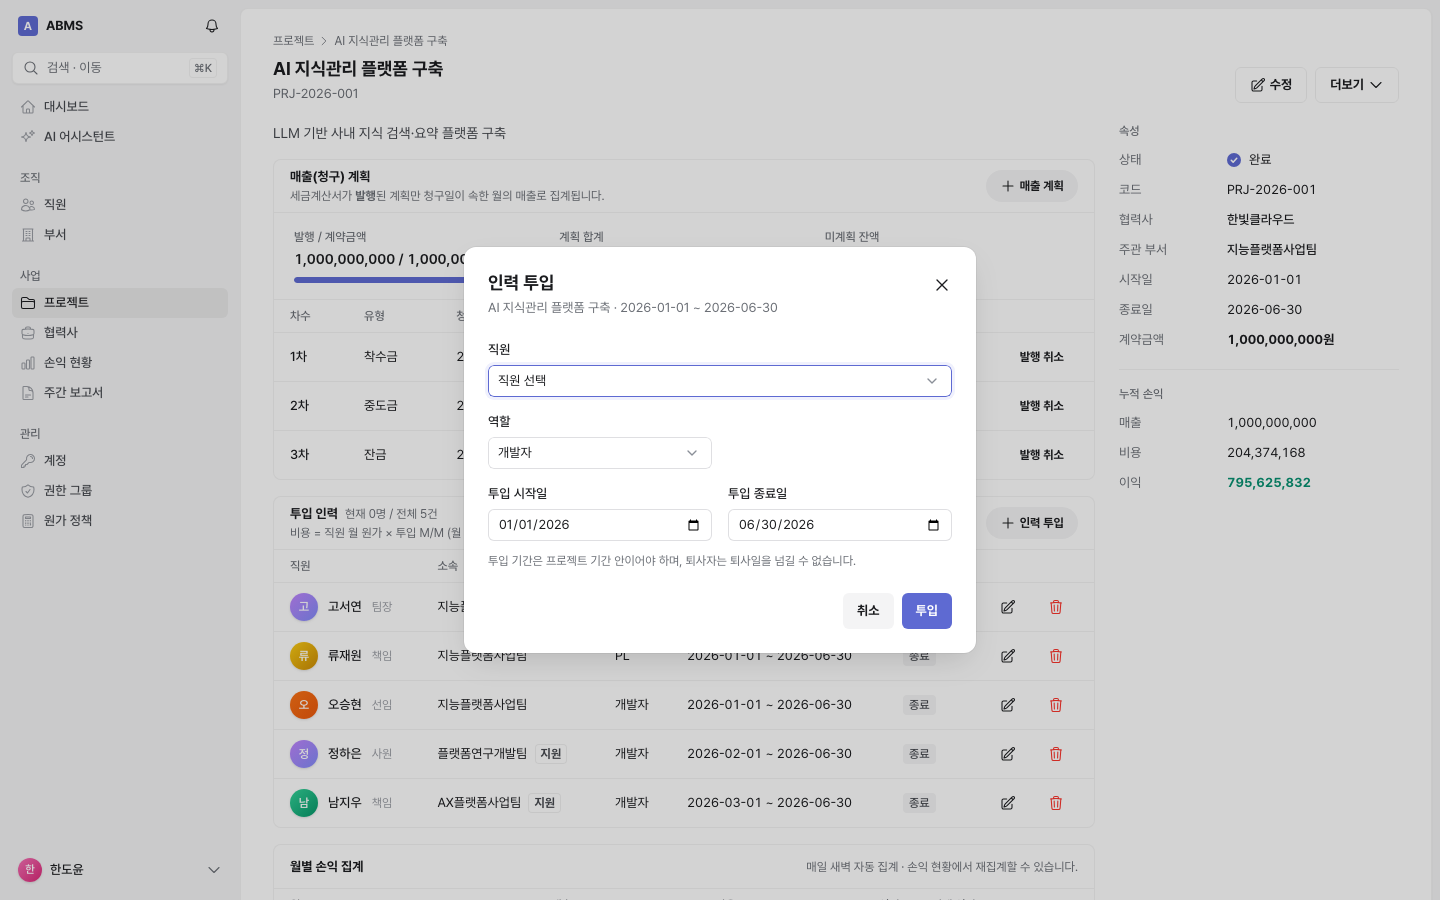
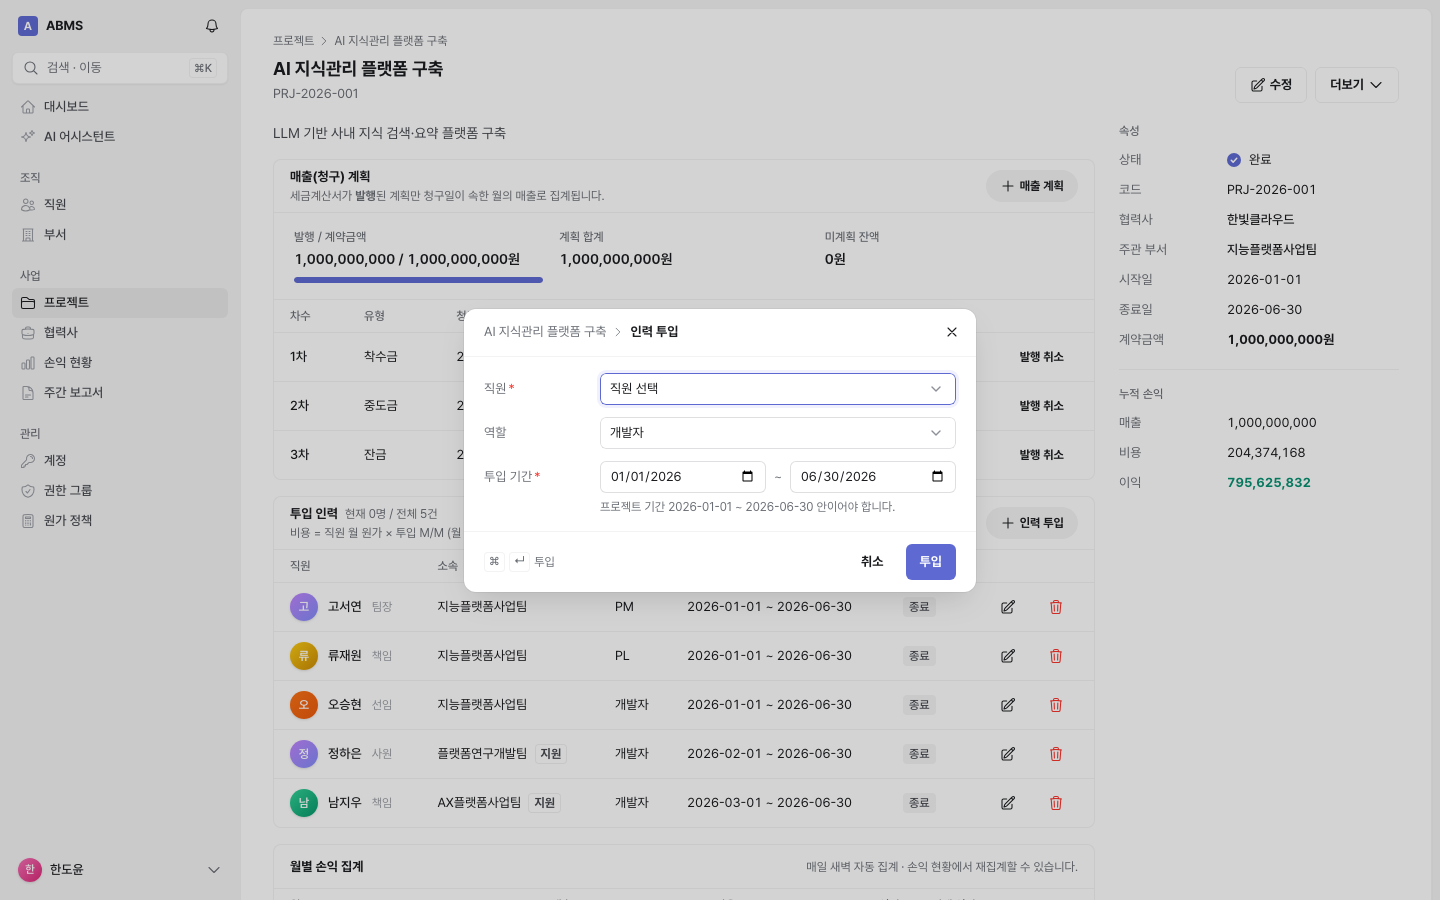
feat(v2): 모달 폼을 Linear 풍으로 개편
- 공통 모달: "맥락 › 제목" 머리 + 닫기, 본문, ⌘↵ 단축키 힌트가 있는 바닥
- propRow 컴포넌트와 prop-form 스타일로 "라벨 | 값" 속성 행 입력 (상세 화면 속성 패널과 같은 배치)
- 투입 인력·매출 계획·부서 추가/수정·부서장·승진·퇴사·연봉·권한 그룹·계정 발급·임시 비밀번호 모달 적용
  (부서·권한 그룹 추가는 제목형 이름 입력, 투입 기간은 시작~종료 한 줄)
- 모달 안에서 ⌘/Ctrl + Enter 로 폼 제출

diff --git a/abms-v2/src/main/tailwind/app.css b/abms-v2/src/main/tailwind/app.css
@@ -276,6 +276,15 @@
         @apply sticky bottom-4 z-10 mt-x2 flex items-center justify-end gap-x2 rounded-r3 border border-stroke-neutral-subtle bg-bg-layer-floating px-x4 py-x2_5 shadow-s2;
     }
 
+    /* 모달 폼: 라벨 | 값 속성 행 */
+    .prop-form {
+        @apply grid grid-cols-[104px_minmax(0,1fr)] items-start gap-x-x3 gap-y-x3;
+    }
+
+    .prop-label {
+        @apply flex min-h-8 items-center t4-regular text-fg-neutral-subtle;
+    }
+
     /* 트리 (조직도) */
     .tree-item {
         @apply flex h-7 items-center gap-x1_5 rounded-r1_5 pr-x2 t4-regular text-fg-neutral-muted transition-colors hover:bg-bg-transparent-pressed;

diff --git a/abms-v2/src/main/resources/static/js/app.js b/abms-v2/src/main/resources/static/js/app.js
@@ -106,6 +106,17 @@
         }
     });
 
+    // 모달 폼은 ⌘/Ctrl + Enter 로 제출한다.
+    document.addEventListener('keydown', (e) => {
+        const dialog = modal();
+        if (!dialog || !dialog.open || !(e.metaKey || e.ctrlKey) || e.key !== 'Enter') return;
+        const form = dialog.querySelector('form');
+        if (form) {
+            e.preventDefault();
+            form.requestSubmit();
+        }
+    });
+
     document.body.addEventListener('closeModal', () => {
         const dialog = modal();
         if (dialog && dialog.open) dialog.close();
